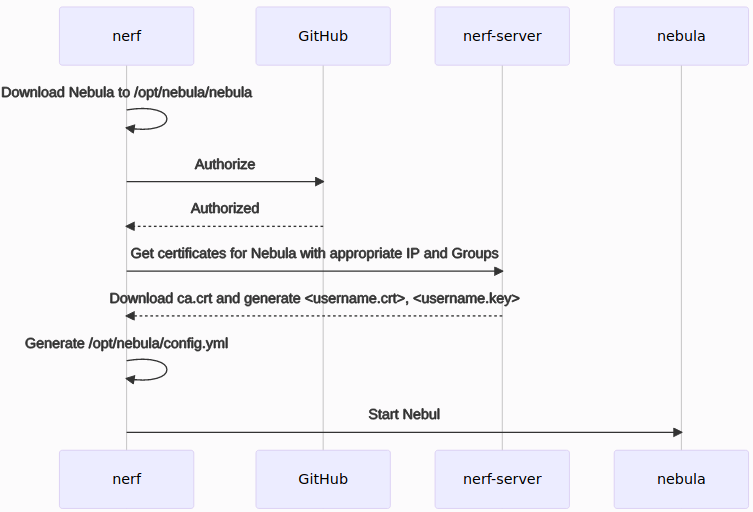
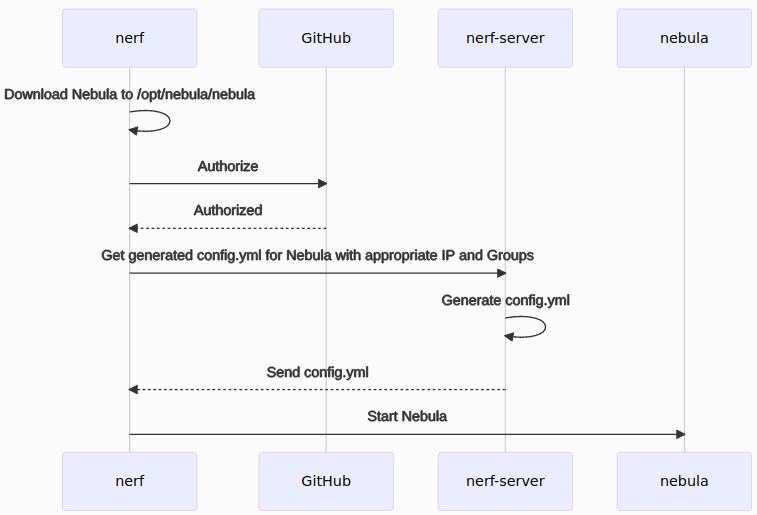
Update sequence diagram

diff --git a/README.md b/README.md
@@ -3,9 +3,9 @@ sequenceDiagram
     nerf->>nerf: Download Nebula to /opt/nebula/nebula
     nerf->>GitHub: Authorize
     GitHub-->>nerf: Authorized
-    nerf->>nerf-server: Get certificates for Nebula with appropriate IP and Groups
-    nerf-server-->>nerf: Download ca.crt and generate <username.crt>, <username.key>
-    nerf->>nerf: Generate /opt/nebula/config.yml
+    nerf->>nerf-server: Get generated config.yml for Nebula with appropriate IP and Groups
+    nerf-server->>nerf-server: Generate config.yml
+    nerf-server-->>nerf: Send config.yml
     nerf->>nebula: Start Nebula
 ```
 
